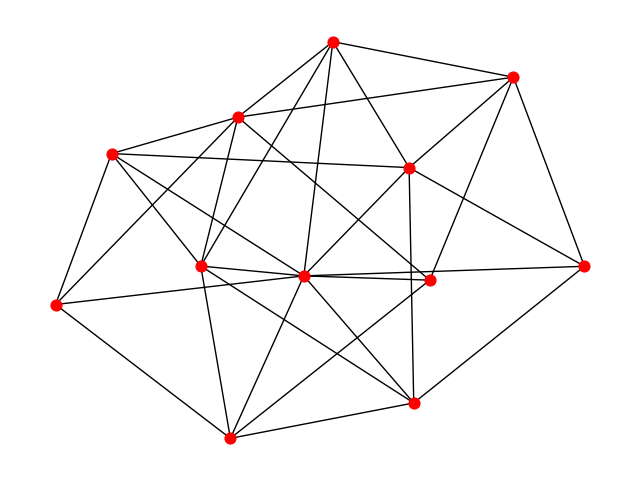
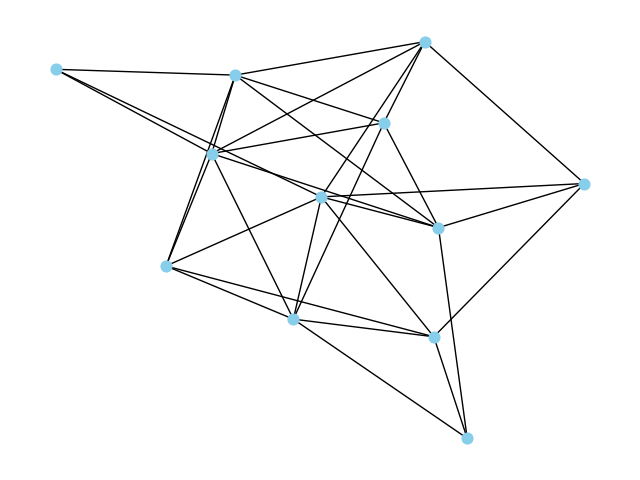
Debugging of Block Receive

diff --git a/peer.py b/peer.py
@@ -59,7 +59,7 @@ class Peer:
         if self.selfish_miner:
             return
         #Simulating Latencies for transaction propagation
-        m = sys.getsizeof(txn)*8
+        m = 1000*8
         for neighbour in self.neighbours:
             c=0
             if not self.is_slow and not neighbour[1]:
@@ -67,7 +67,7 @@ class Peer:
             else:
                 c=5000000
             d = np.random.exponential(96000/c)
-            time_delta = self.speed_of_light_delay + (m/c) + d
+            time_delta = self.speed_of_light_delay[self.peer_id][neighbour[0]] + (m/c) + d
             new_event= Event(current_time+time_delta, 'txn_receive', neighbour[0], txn)
             heapq.heappush(event_queue, new_event)
     
@@ -81,10 +81,9 @@ class Peer:
         new_block=Block(prev_hash, self.peer_id, index, self.blockchain.last_block.blk_id)
         
         i=0
-        while i < len(self.transactions) and sys.getsizeof(new_block)<1000000:
+        while i < len(self.transactions) and len(new_block.transactions)<1000:
             new_block.add_transaction(self.transactions[i])
             i+=1
-        print(self.mean_block_generation_time, self.hashing_power, self.mean_block_generation_time/self.hashing_power)
         Tk = np.random.exponential(self.mean_block_generation_time/self.hashing_power)
         mining = Event(current_time+Tk, 'blk_mining', self.peer_id, new_block)
         heapq.heappush(event_queue, mining)
@@ -114,20 +113,20 @@ class Peer:
             return None
         #Validating Transactions
         balance=prev_block.balance[:]
-        for txn in block.transactions:
-            if isinstance(txn, Coinbase):
-                balance[txn.miner]+=50
-            else:
-                balance[txn.sender]-=txn.amount
-                balance[txn.receiver]+=txn.amount
-        for i in balance:
-            if i < 0:
-                return None
+        # for txn in block.transactions:
+        #     if isinstance(txn, Coinbase):
+        #         balance[txn.miner]+=50
+        #     else:
+        #         balance[txn.sender]-=txn.amount
+        #         balance[txn.receiver]+=txn.amount
+        # for i in balance:
+        #     if i < 0:
+        #         return None
         
         return balance
 
     #Function handles receive block event only for honest miners
-    def receive_block(self, current_time, block):
+    def receive_block(self, current_time, block: Block):
         if self.selfish_miner:
             self.selfish_miner_receive_block(current_time, block)
             return
@@ -154,7 +153,7 @@ class Peer:
             self.private_chain.add_genesis(block)
         self.add_to_file_writing(block.index, block.miner_id, block.blk_id, len(block.transactions), block.mine_time, current_time)
        
-        m = sys.getsizeof(block)*8
+        m=len(block.transactions)*1000*8
         for neighbour in self.neighbours:
             c=0
             if not self.is_slow and not neighbour[1]:
@@ -162,10 +161,11 @@ class Peer:
             else:
                 c=5000000
             d = np.random.exponential(96000/c)
-            time_delta = self.speed_of_light_delay + (m/c) + d
+            time_delta = self.speed_of_light_delay[self.peer_id][neighbour[0]] + (m/c) + d
             new_event=Event(current_time+time_delta, 'blk_receive', neighbour[0], block)
             heapq.heappush(event_queue, new_event)
-        self.generate_block(current_time)
+        if block == self.private_chain.last_block:
+            self.generate_block(current_time)
     
     #Function for storing logs on each block receive
     def add_to_file_writing(self,block_index,miner_id,block_id,num_of_txns,mine_time,arrival_time):
@@ -195,23 +195,27 @@ class Peer:
                 self.used_txns.append(txn)
             if block.miner_id == self.peer_id:
                 self.private_chain.add_block(block)
+                if self.private_chain.last_block.index == self.blockchain.last_block.index-1:
+                    self.broadcast_block(self.private_chain.last_block)
                 self.generate_block(current_time)
             elif self.blockchain.last_block.index >= self.private_chain.last_block.index:
                 self.private_chain.add_block(block)
                 self.blockchain.add_block(block)
-                #self.generate_block(current_time)
+                self.generate_block(current_time)
             elif self.blockchain.last_block.index == self.private_chain.last_block.index-1:
                 self.broadcast_block(current_time, self.private_chain.last_block)
                 self.private_chain.add_block(block)
                 self.blockchain.add_block(block)
+                self.generate_block(current_time)
             elif self.blockchain.last_block.index == self.private_chain.last_block.index-2:
                 self.broadcast_block(current_time, self.private_chain.find_block_by_id(self.private_chain.last_block.prev_blk_id))
                 self.broadcast_block(current_time, self.private_chain.last_block)
                 self.private_chain.add_block(block)
                 self.blockchain.add_block(block)
+                self.generate_block(current_time)
             else:
                 parallelblock=None
-                for blk in self.private_chain.block[block.index]:
+                for blk in self.private_chain.blocks[block.index]:
                     if blk.miner_id == self.peer_id:
                         parallelblock=blk
                         break
@@ -219,9 +223,9 @@ class Peer:
                 self.private_chain.add_block(block)
                 self.blockchain.add_block(block)
             
-    def broadcast_block(self, current_time, block):
+    def broadcast_block(self, current_time, block: Block):
         self.blockchain.add_block(block)
-        m = sys.getsizeof(block)*8
+        m = len(block.transactions)*1000*8
         for neighbour in self.neighbours:
             c=0
             if not self.is_slow and not neighbour[1]:
@@ -229,7 +233,7 @@ class Peer:
             else:
                 c=5000000
             d = np.random.exponential(96000/c)
-            time_delta = self.speed_of_light_delay + (m/c) + d
+            time_delta = self.speed_of_light_delay[self.peer_id][neighbour[0]] + (m/c) + d
             new_event=Event(current_time+time_delta, 'blk_receive', neighbour[0], block)
             heapq.heappush(event_queue, new_event)
 

diff --git a/sim.py b/sim.py
@@ -50,8 +50,8 @@ class Simulation:
             self.peers.append(peer)
 
         #Creating Selfish miners
-        miner1= Peer(self.num_peers, False, False, speed_of_light_delay, hashing_power1, mean_block_generation_time, self.num_peers+2, True)
-        miner2= Peer(self.num_peers+1, False, False, speed_of_light_delay, hashing_power2, mean_block_generation_time, self.num_peers+2, True)
+        miner1= Peer(self.num_peers, False, False, speed_of_light_delay, hashing_power1/100, mean_block_generation_time, self.num_peers+2, True)
+        miner2= Peer(self.num_peers+1, False, False, speed_of_light_delay, hashing_power2/100, mean_block_generation_time, self.num_peers+2, True)
         self.selfish_miners=[miner1, miner2]
 
         
@@ -97,7 +97,7 @@ class Simulation:
             heapq.heappush(event_queue, genesis_event)
     
     def display_network(self):
-        nx.draw(self.graph, node_color='red', node_size=60, font_size=5)
+        nx.draw(self.graph, node_color='skyblue', node_size=60, font_size=40)
         plt.savefig("graph.png")
         plt.close()
 
@@ -125,9 +125,16 @@ class Simulation:
                 peer.mine_block(current_time, current_event.data)
             elif current_event.event_type == 'blk_receive':
                 peer.receive_block(current_time, current_event.data)
+        
+        while event_queue:
+            current_event = heapq.heappop(event_queue)
+            current_time = current_event.event_time
+            peer = self.find_peer_by_id(current_event.peer_id)
+            if current_event.event_type == 'blk_receive':
+                peer.receive_block(current_time, current_event.data)
     
     #Function for developing graphs of blockchain for each node
-    def visualize_blockchain(self, peer):
+    def visualize_blockchain(self, peer:Peer):
         G = nx.DiGraph()
         plt.figure(figsize=(5,10))
         blockchain = peer.private_chain
@@ -164,15 +171,16 @@ class Simulation:
                 else:
                     node_colors.append('skyblue')        
         nx.draw(G, pos, with_labels=True, labels=labels, node_size=100, node_color=node_colors, font_size=3, node_shape='s')
-        # longest_path=nx.dag_longest_path(G)
-        # counter=0
-        # for blk_id in longest_path:
-        #     block=self.find_block_by_id(blk_id,peer)
-        #     if block and block.miner_id != -1:
-        #         miner= self.find_peer_by_id(block.miner_id)
-        #         if not miner.is_low_cpu:
-        #             counter+=1
-        # plt.text(0,0, f'Total Number of Blocks: {sum([len(lst) for lst in peer.blockchain.blocks.values()])}\nNumber of Blocks in \nLongest Chain: {max(blockchain.blocks.keys())+1}\nBlocks by High CPU: {counter}\nBlocks by Low CPU: {len(longest_path)-counter}', fontsize=10, color='black')
+        longest_path=nx.dag_longest_path(G)
+        main_chain_blocks=0
+        total_blocks=0
+        for blklist in peer.private_chain.blocks.values():
+            for blk in blklist:
+                if blk.miner_id == peer.peer_id:
+                    total_blocks+=1
+                    if blk.blk_id in longest_path:
+                        main_chain_blocks+=1
+        plt.text(0,0, f'Total Blocks: {sum([len(lst) for lst in peer.private_chain.blocks.values()])}\nBlocks in Longest Chain: {max(blockchain.blocks.keys())+1}\nTotal Blocks by Peer: {total_blocks}\nBlocks in Longest Chain by Peer: {main_chain_blocks}', fontsize=13, color='black')
         plt.title("Blockchain Visualization")
         plt.savefig(f"visuals/Blockchain_{peer.peer_id}.png")
         plt.close()
@@ -217,7 +225,7 @@ if __name__=="__main__":
     simulation= Simulation(num_peers, slow_percentage, low_cpu_percentage, simulation_duration)
     
     # Speed of Light delay while propagation of
-    speed_of_light_delay=random.uniform(0.01, 0.5)
+    speed_of_light_delay=np.random.uniform(0.01, 0.5, size=(num_peers+2, num_peers+2))
 
     print("Creating peers...")
     simulation.initialize_peers(speed_of_light_delay, mean_block_generation_time, hashing_power1, hashing_power2)
